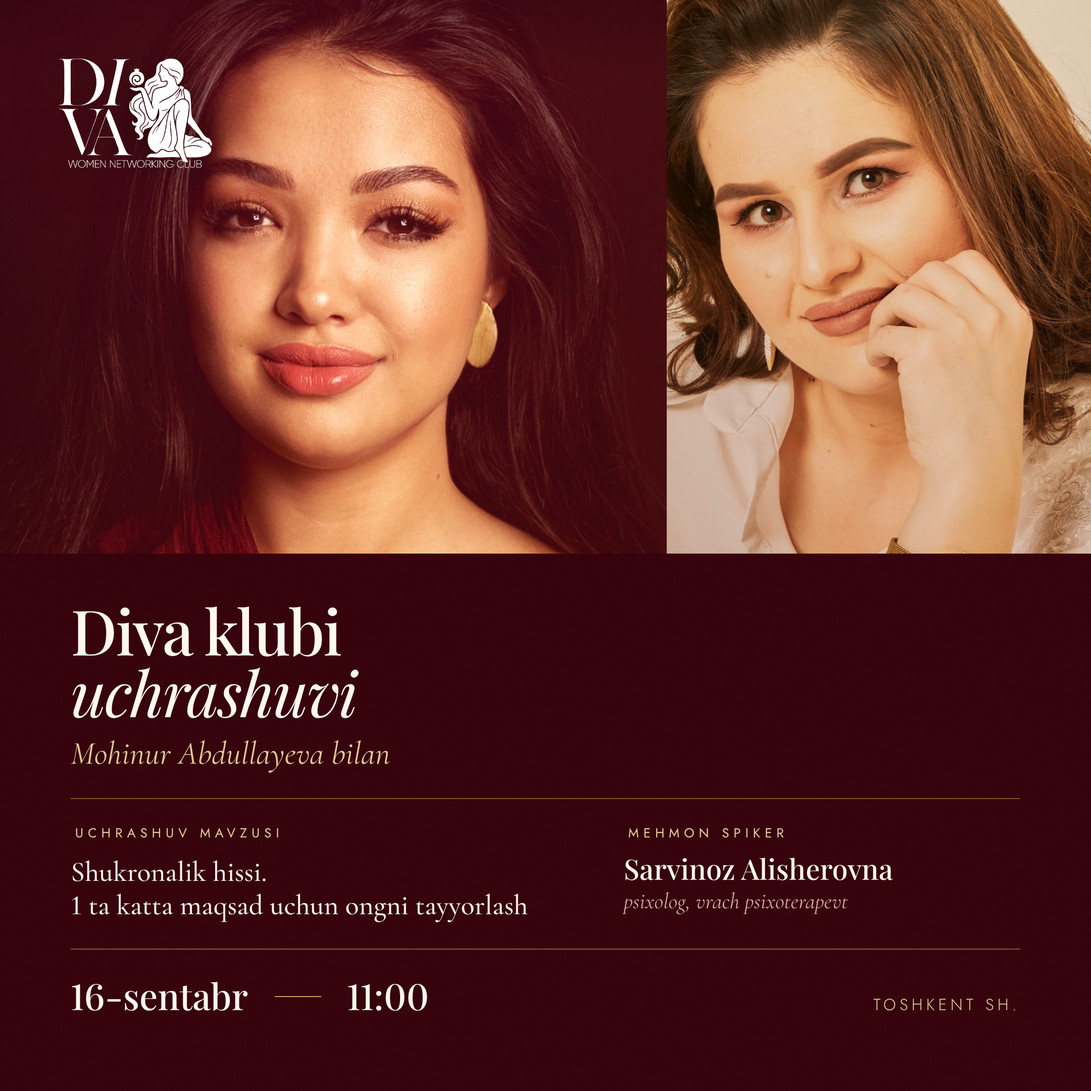
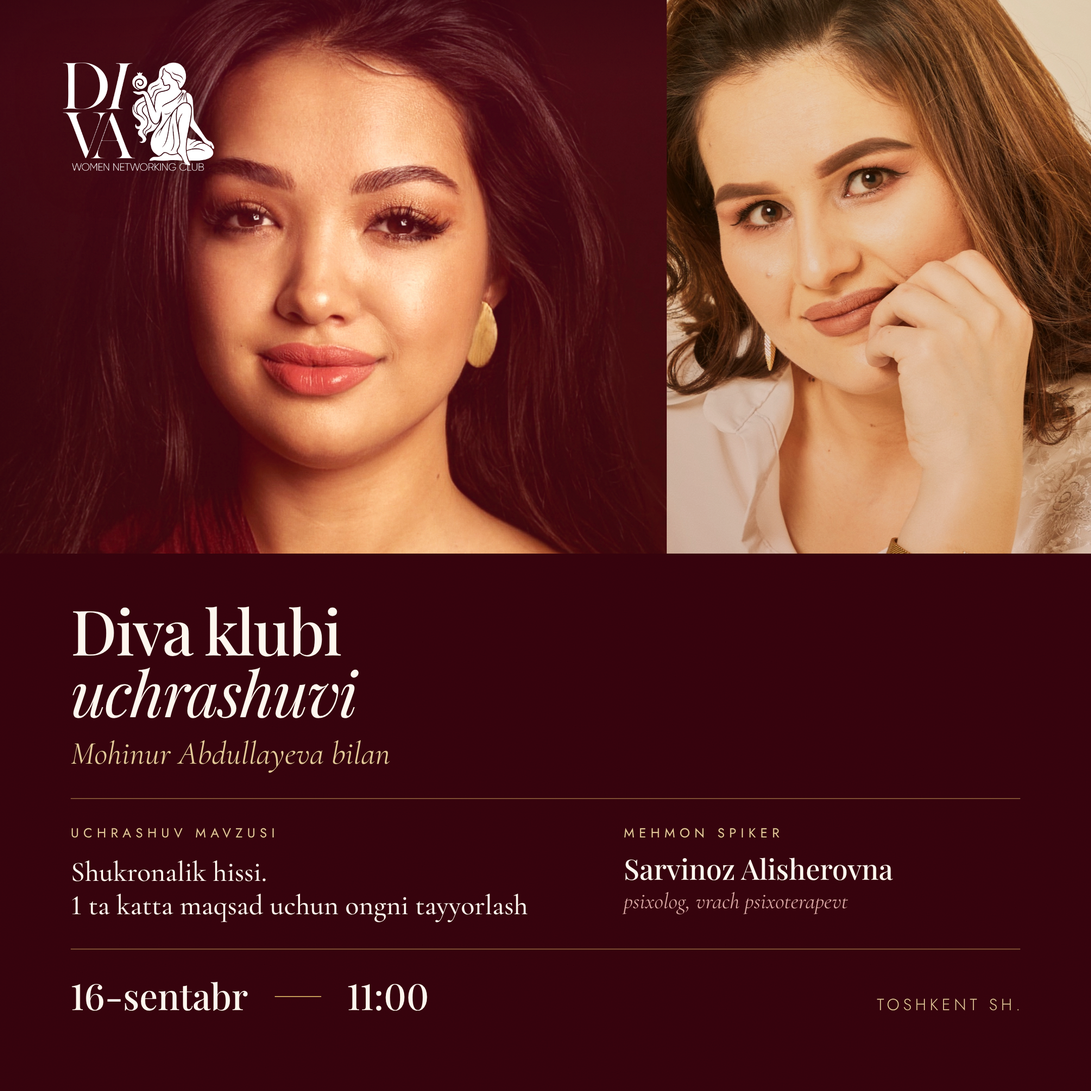
Rebuild direction C as a frameless cover story
Mohinur becomes a full-bleed hero whose studio black is lifted into
maroon by a screen-blend tone layer, with a scrim that stays at zero
opacity across her face and only ramps to solid well below the chin.
Each ratio is re-composed rather than rescaled: a two-column grid under
the title at 9:16, a mirrored information row at 4:5, and a double
portrait band over a full-width type block at 1:1.

Claude-Session: https://claude.ai/code/session_01CJcxAKvhDYH9Z96uyo456t

diff --git a/diva-club-posts/variant-b.html b/diva-club-posts/variant-b.html
@@ -43,7 +43,7 @@
 html[data-r="9x16"] .canvas {
   --m: 96px;
   --ttl: 138px; --host: 66px; --lbl: 18px; --topic: 50px;
-  --name: 48px; --role: 34px; --date: 74px; --logo: 168px;
+  --name: 48px; --role: 34px; --date: 70px; --logo: 168px;
   --horizon: 1206px;
   --fw1: 720px; --fx1: -126px; --fy1: 1258px;
   --fw2: 650px; --fx2: 586px; --fy2: 1296px;
@@ -52,12 +52,12 @@ html[data-r="9x16"] .canvas {
 
 html[data-r="1x1"] .canvas {
   --m: 76px;
-  --ttl: 70px; --host: 38px; --lbl: 13px; --topic: 29px;
-  --name: 26px; --role: 22px; --date: 42px; --logo: 106px;
-  --horizon: 583px;
-  --fw1: 580px; --fx1: 6px;   --fy1: 596px;
-  --fw2: 520px; --fx2: 557px; --fy2: 622px;
-  --g-host: 14px; --g-rule: 36px; --g-block: 20px; --g-cols: 26px;
+  --ttl: 67px; --host: 36px; --lbl: 13px; --topic: 28px;
+  --name: 25px; --role: 21px; --date: 41px; --logo: 104px;
+  --horizon: 544px;
+  --fw1: 620px; --fx1: -32px; --fy1: 552px;
+  --fw2: 555px; --fx2: 561px; --fy2: 578px;
+  --g-host: 13px; --g-rule: 30px; --g-block: 18px; --g-cols: 22px;
   --colgap: 44px;
 }
 
@@ -181,6 +181,8 @@ html[data-r="9x16"] .col-guest { max-width: none; }
   margin-top: calc(var(--g-block) * 0.9);
 }
 .w-date {
+  flex: 0 0 auto;
+  white-space: nowrap;
   font-family: var(--display);
   font-weight: 500;
   font-size: var(--date);
@@ -188,6 +190,8 @@ html[data-r="9x16"] .col-guest { max-width: none; }
   color: var(--maroon-rich);
 }
 .w-place {
+  flex: 0 0 auto;
+  white-space: nowrap;
   margin-left: auto;
   margin-right: -0.24em;
   font-family: var(--sans);

diff --git a/diva-club-posts/variant-c.html b/diva-club-posts/variant-c.html
@@ -151,7 +151,6 @@
   letter-spacing: 0.34em;
   text-transform: uppercase;
   color: var(--gold-soft);
-  text-indent: 0.34em;
 }
 
 .theme-text {
@@ -217,6 +216,7 @@
   text-transform: uppercase;
   color: var(--gold-soft);
   margin-left: auto;
+  margin-right: -0.22em;
 }
 
 /* ======================================================= ratio overrides = */
@@ -259,7 +259,7 @@ html[data-r="1x1"] .hero > .scrim {
   background: linear-gradient(180deg, rgba(34,1,8,0.34) 0%, rgba(34,1,8,0) 14%);
 }
 html[data-r="1x1"] .hero > .side { background: linear-gradient(90deg, rgba(34,1,8,0.26) 0%, rgba(34,1,8,0) 22%); }
-html[data-r="1x1"] .mark { width: 152px; top: 58px; left: 58px; }
+html[data-r="1x1"] .mark { width: 150px; top: 62px; left: 62px; }
 html[data-r="1x1"] .duo {
   display: block;
   position: absolute;
